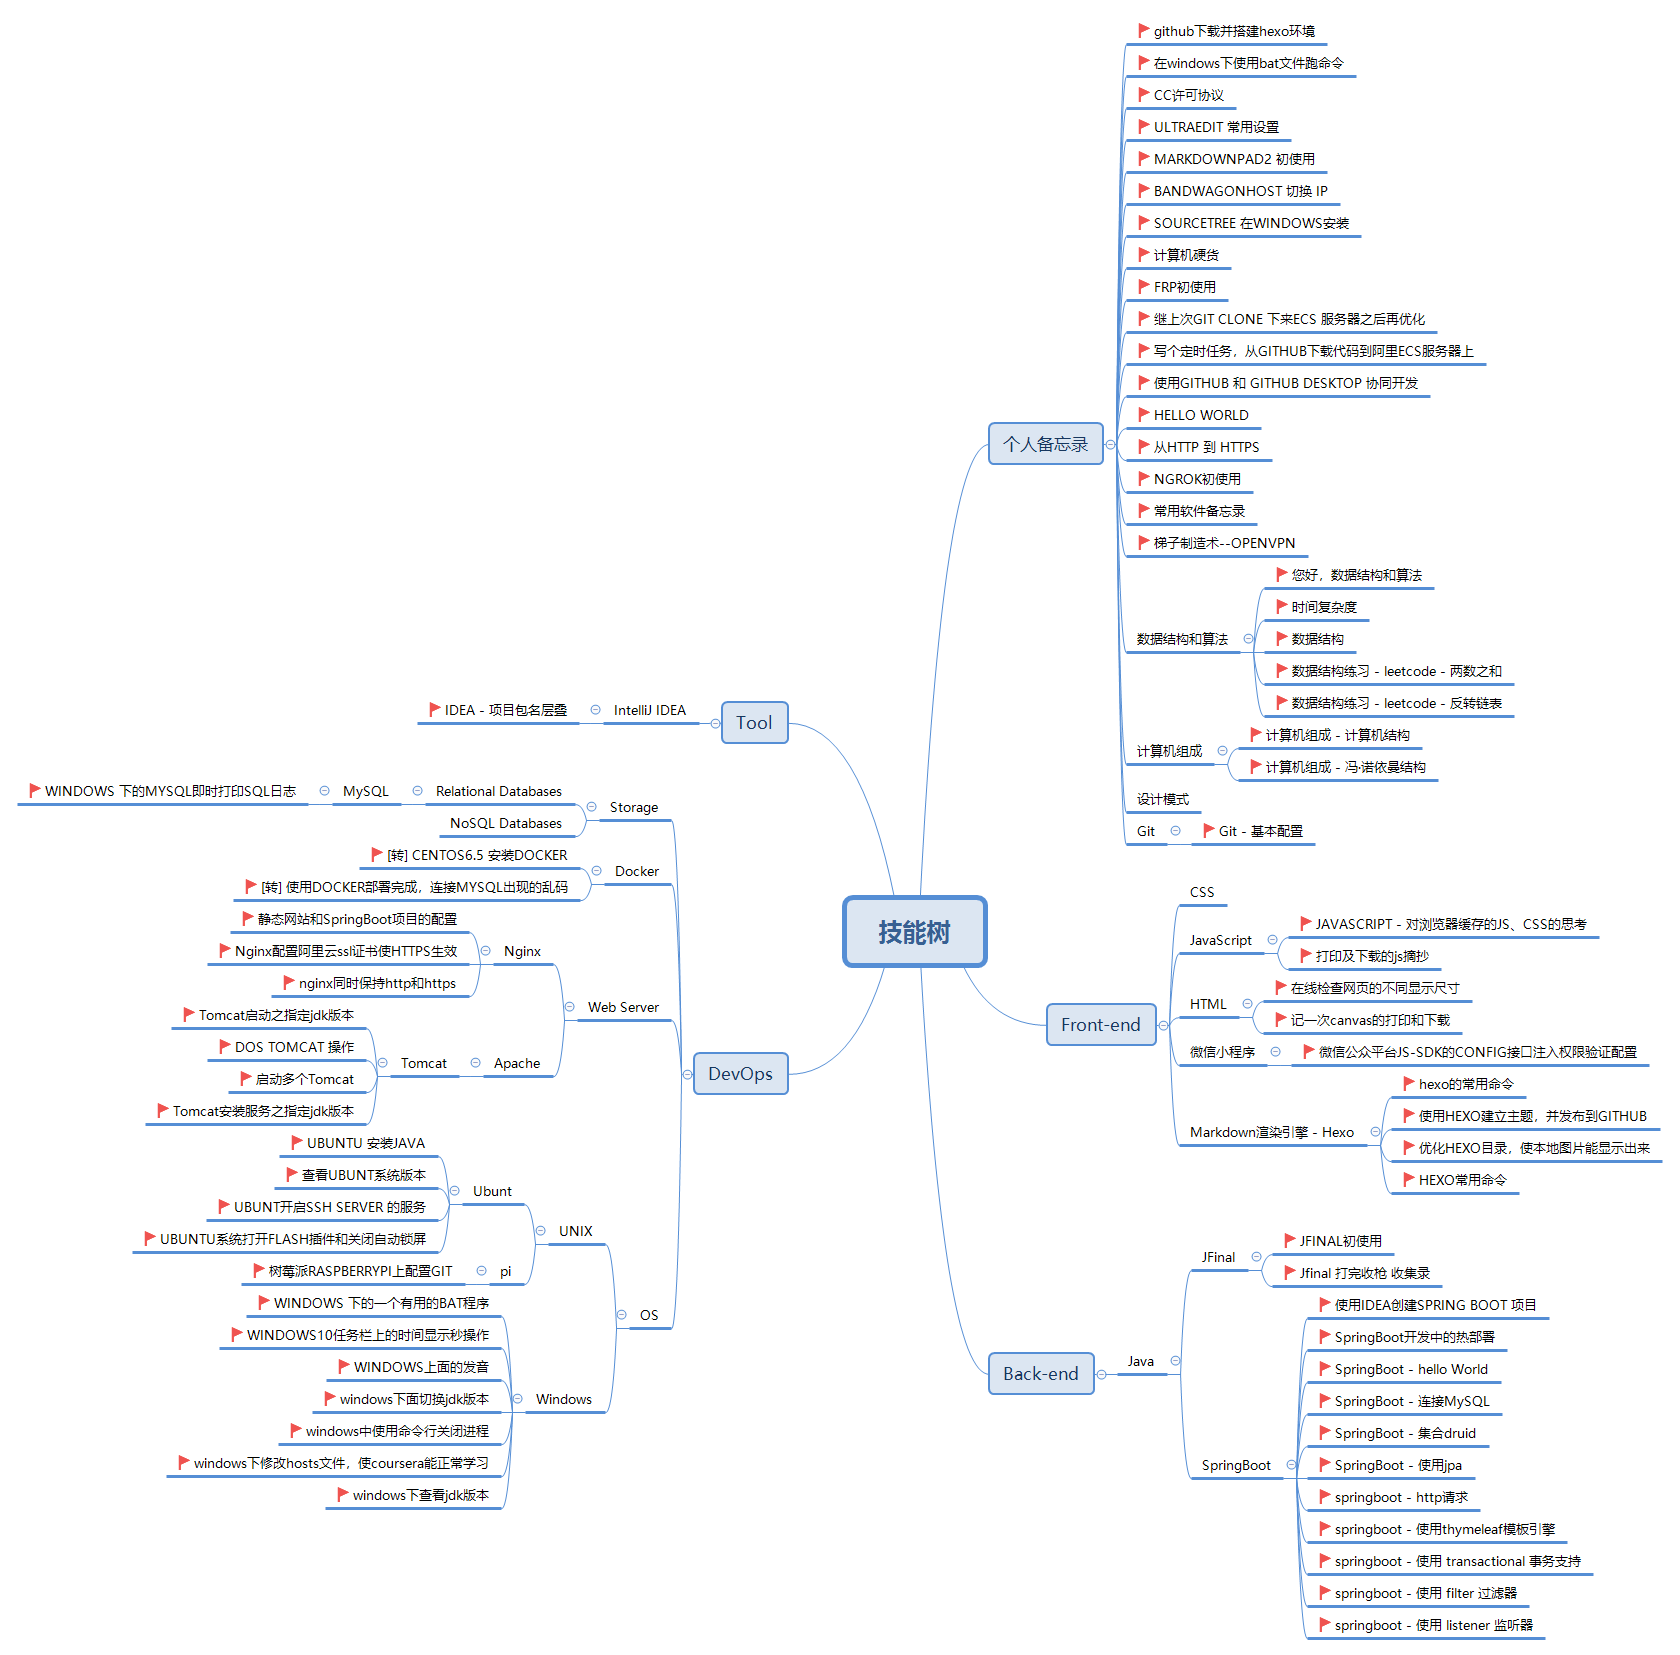
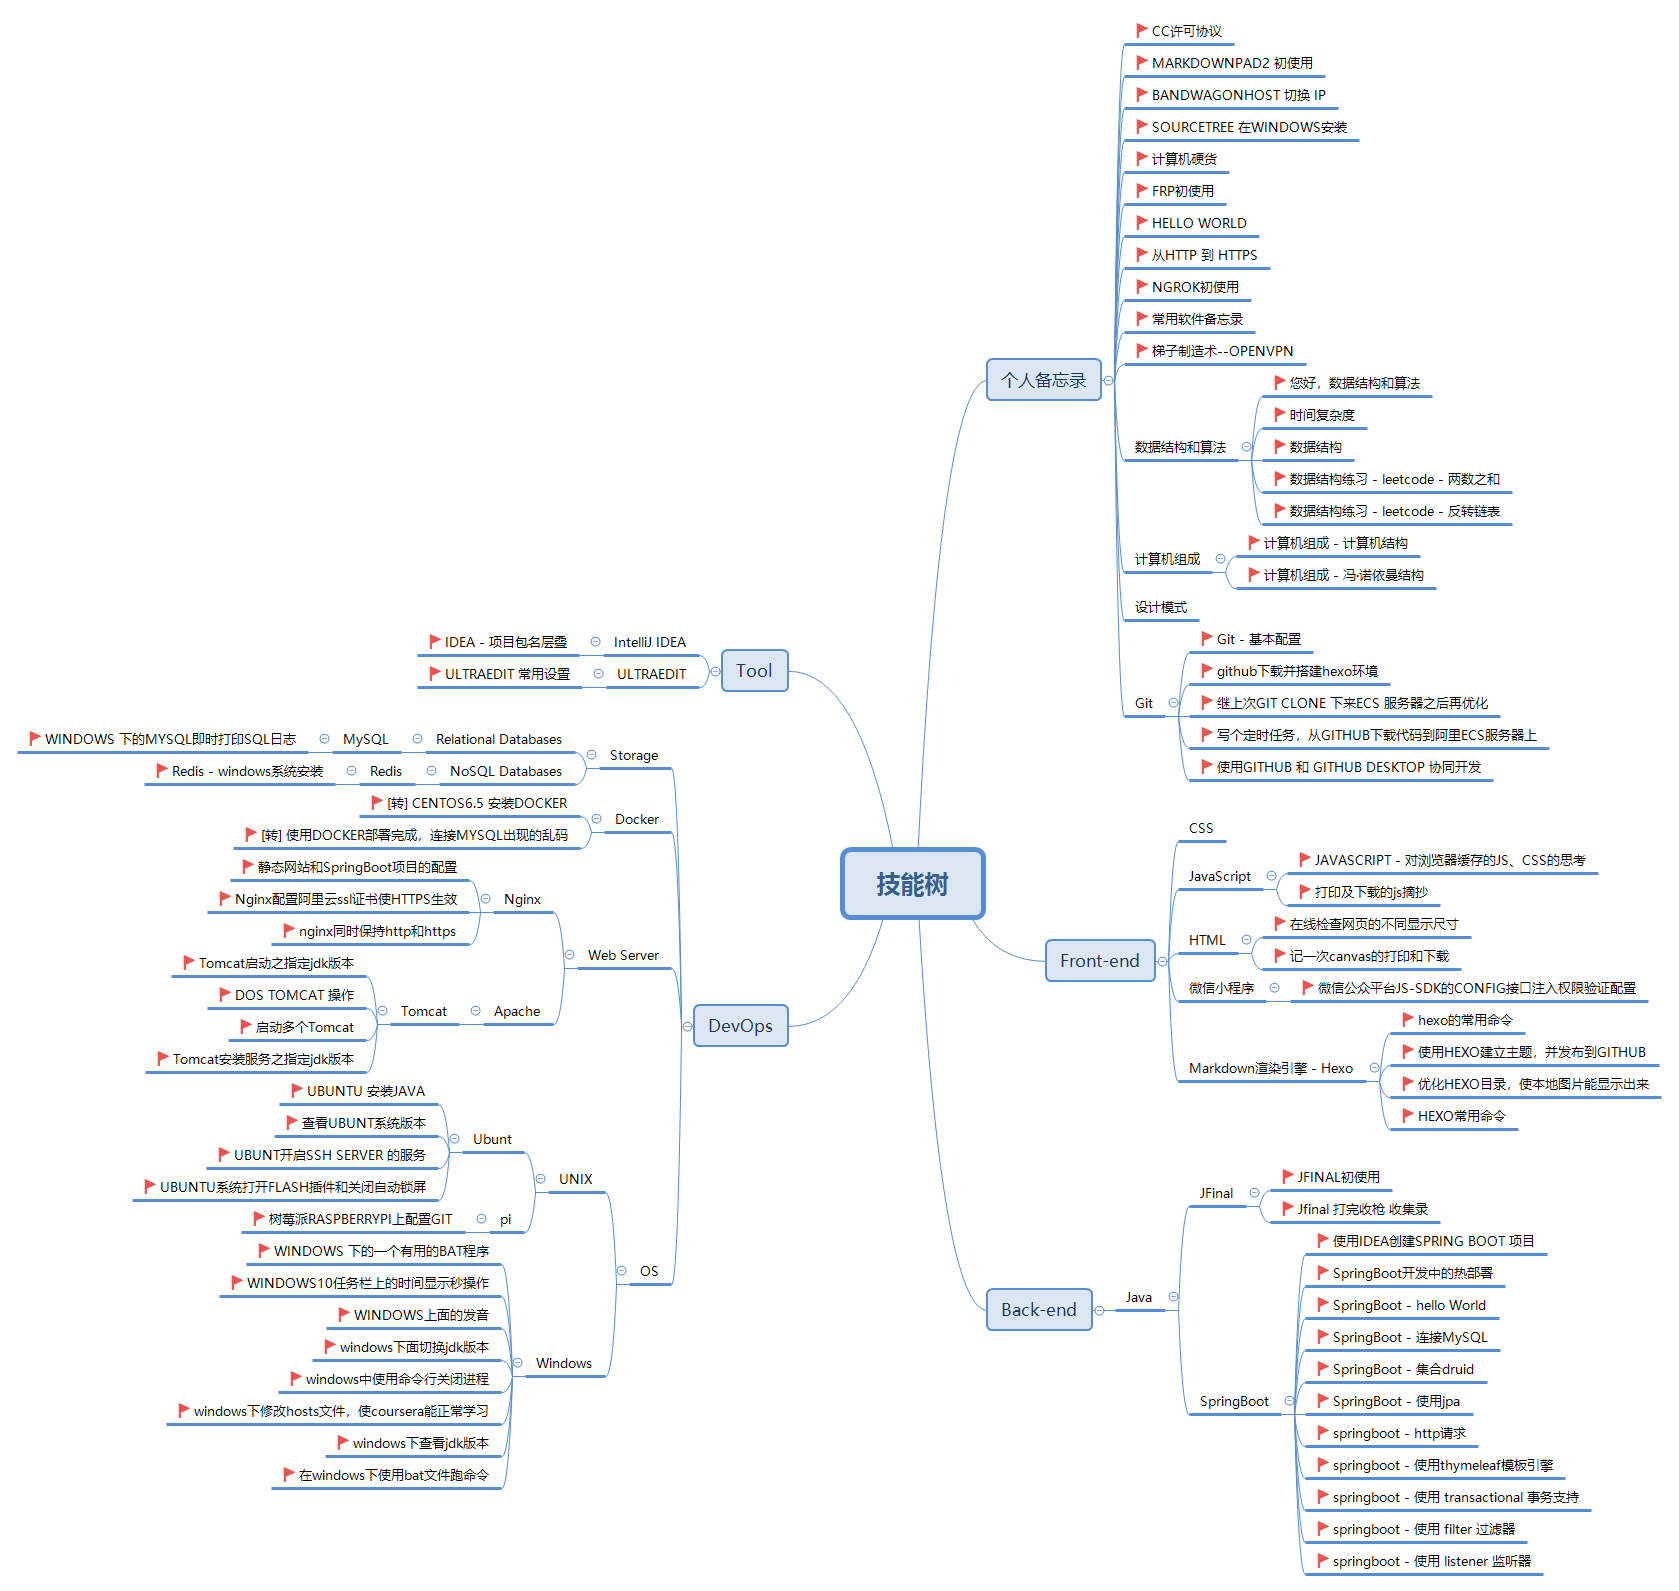
update readme

diff --git a/readme/index.html b/readme/index.html
@@ -1,20 +1,15 @@
 <!DOCTYPE html><html lang="zh-CN"><head><meta name="generator" content="Hexo 3.8.0"><meta charset="utf-8"><meta name="X-UA-Compatible" content="IE=edge"><meta name="author" content="porschan,710437653@qq.com"><title>readme · chanchifeng</title><meta name="description" content="技术路线
 Porschan个人备忘录
-github下载并搭建hexo环境:https://chanchifeng.com/2018/11/11/github-hexo-windows10/
-在windows下使用bat文件跑命令:https://chanchifeng.com/2018/11/12/"><meta name="keywords" content="Hexo,HTML,CSS,android,Linux"><meta content="width=device-width, initial-scale=1.0, maximum-scale=1.0, user-scalable=0" name="viewport"><meta content="yes" name="apple-mobile-web-app-capable"><meta content="black" name="apple-mobile-web-app-status-bar-style"><meta content="telephone=no" name="format-detection"><meta name="renderer" content="webkit"><link rel="short icon" href="/images/favicon.png" type="image/x-icon"><link rel="stylesheet" href="/css/style.css"><link rel="stylesheet" href="/css/blog_basic.css"><link rel="stylesheet" href="/css/font-awesome.min.css"><link rel="alternate" type="application/atom+xml" title="ATOM 1.0" href="/atom.xml"></head><body><div class="sidebar animated fadeInDown"><div class="logo-title"><div class="title"><img src="/images/logo@2x.png" style="width:127px;"><h3 title=""><a href="/">chanchifeng</a></h3><div class="description"><p>Carpet Diem</p></div></div></div><ul class="social-links"><li><a href="http://github.com/porschan"><i class="fa fa-github"></i></a></li></ul><div class="footer"></div></div><div class="main"><div class="page-top animated fadeInDown"><div class="nav"><li><a href="/">首页</a></li><li><a href="/about">关于</a></li><li><a href="/archives">归档</a></li><li><a href="/links">友链</a></li><li><a class="current" href="/readme">引导</a></li></div><div class="information"><div class="back_btn"><li><a class="fa fa-chevron-left" onclick="window.history.go(-1)" style="display:none;"> </a></li></div><div class="avatar"><img src="/images/favicon.png"></div></div></div><div class="autopagerize_page_element"><div class="content"><div class="post-page"><div class="post animated fadeInDown"><div class="post-title"><h3><a>readme</a></h3></div><div class="post-content"><h3 id="技术路线"><a href="#技术路线" class="headerlink" title="技术路线"></a>技术路线</h3><p><img src="/readme/20190215.png" alt=""></p>
+CC许可协议:https://chanchifeng.com/2018/11/13/cc/
+MARKDOWNPAD2 初使用:https://chanchifeng.com/2018/07/25/markdownPad/
+BANDWAGONHOST 切换 IP："><meta name="keywords" content="Hexo,HTML,CSS,android,Linux"><meta content="width=device-width, initial-scale=1.0, maximum-scale=1.0, user-scalable=0" name="viewport"><meta content="yes" name="apple-mobile-web-app-capable"><meta content="black" name="apple-mobile-web-app-status-bar-style"><meta content="telephone=no" name="format-detection"><meta name="renderer" content="webkit"><link rel="short icon" href="/images/favicon.png" type="image/x-icon"><link rel="stylesheet" href="/css/style.css"><link rel="stylesheet" href="/css/blog_basic.css"><link rel="stylesheet" href="/css/font-awesome.min.css"><link rel="alternate" type="application/atom+xml" title="ATOM 1.0" href="/atom.xml"></head><body><div class="sidebar animated fadeInDown"><div class="logo-title"><div class="title"><img src="/images/logo@2x.png" style="width:127px;"><h3 title=""><a href="/">chanchifeng</a></h3><div class="description"><p>Carpet Diem</p></div></div></div><ul class="social-links"><li><a href="http://github.com/porschan"><i class="fa fa-github"></i></a></li></ul><div class="footer"></div></div><div class="main"><div class="page-top animated fadeInDown"><div class="nav"><li><a href="/">首页</a></li><li><a href="/about">关于</a></li><li><a href="/archives">归档</a></li><li><a href="/links">友链</a></li><li><a class="current" href="/readme">引导</a></li></div><div class="information"><div class="back_btn"><li><a class="fa fa-chevron-left" onclick="window.history.go(-1)" style="display:none;"> </a></li></div><div class="avatar"><img src="/images/favicon.png"></div></div></div><div class="autopagerize_page_element"><div class="content"><div class="post-page"><div class="post animated fadeInDown"><div class="post-title"><h3><a>readme</a></h3></div><div class="post-content"><h3 id="技术路线"><a href="#技术路线" class="headerlink" title="技术路线"></a>技术路线</h3><p><img src="/readme/20190215.png" alt=""></p>
 <h1 id="Porschan"><a href="#Porschan" class="headerlink" title="Porschan"></a>Porschan</h1><h2 id="个人备忘录"><a href="#个人备忘录" class="headerlink" title="个人备忘录"></a>个人备忘录</h2><ul>
-<li>github下载并搭建hexo环境:<a href="https://chanchifeng.com/2018/11/11/github-hexo-windows10/" title="github下载并搭建hexo环境" target="_blank" rel="noopener">https://chanchifeng.com/2018/11/11/github-hexo-windows10/</a></li>
-<li>在windows下使用bat文件跑命令:<a href="https://chanchifeng.com/2018/11/12/hexo-cmd-windows-bat/" title="在windows下使用bat文件跑命令" target="_blank" rel="noopener">https://chanchifeng.com/2018/11/12/hexo-cmd-windows-bat/</a></li>
 <li>CC许可协议:<a href="https://chanchifeng.com/2018/11/13/cc/" title="CC许可协议" target="_blank" rel="noopener">https://chanchifeng.com/2018/11/13/cc/</a></li>
-<li>ULTRAEDIT 常用设置:<a href="https://chanchifeng.com/2018/07/19/ultraEdit/" title="https://chanchifeng.com/2018/07/19/ultraEdit/" target="_blank" rel="noopener">https://chanchifeng.com/2018/07/19/ultraEdit/</a></li>
 <li>MARKDOWNPAD2 初使用:<a href="https://chanchifeng.com/2018/07/25/markdownPad/" title="https://chanchifeng.com/2018/07/25/markdownPad/" target="_blank" rel="noopener">https://chanchifeng.com/2018/07/25/markdownPad/</a></li>
 <li>BANDWAGONHOST 切换 IP：<a href="https://chanchifeng.com/2018/11/11/Bandwagonhost-IP/" title="https://chanchifeng.com/2018/11/11/Bandwagonhost-IP/" target="_blank" rel="noopener">https://chanchifeng.com/2018/11/11/Bandwagonhost-IP/</a></li>
 <li>SOURCETREE 在WINDOWS安装：<a href="https://chanchifeng.com/2018/11/11/SourceTree/" title="https://chanchifeng.com/2018/11/11/SourceTree/" target="_blank" rel="noopener">https://chanchifeng.com/2018/11/11/SourceTree/</a></li>
 <li>计算机硬货:<a href="https://chanchifeng.com/2018/11/11/computer/" title="https://chanchifeng.com/2018/11/11/computer/" target="_blank" rel="noopener">https://chanchifeng.com/2018/11/11/computer/</a></li>
 <li>FRP初使用:<a href="https://chanchifeng.com/2018/11/11/frp/" title="https://chanchifeng.com/2018/11/11/frp/" target="_blank" rel="noopener">https://chanchifeng.com/2018/11/11/frp/</a></li>
-<li>继上次GIT CLONE 下来ECS 服务器之后再优化:<a href="https://chanchifeng.com/2018/11/11/git_clone-CES/" title="https://chanchifeng.com/2018/11/11/git_clone-CES/" target="_blank" rel="noopener">https://chanchifeng.com/2018/11/11/git_clone-CES/</a></li>
-<li>写个定时任务，从GITHUB下载代码到阿里ECS服务器上:<a href="https://chanchifeng.com/2018/11/11/github-ecs/" title="https://chanchifeng.com/2018/11/11/github-ecs/" target="_blank" rel="noopener">https://chanchifeng.com/2018/11/11/github-ecs/</a></li>
-<li>使用GITHUB 和 GITHUB DESKTOP 协同开发:<a href="https://chanchifeng.com/2018/11/11/github-github_desktop/" title="https://chanchifeng.com/2018/11/11/github-github_desktop/" target="_blank" rel="noopener">https://chanchifeng.com/2018/11/11/github-github_desktop/</a></li>
 <li>HELLO WORLD:<a href="https://chanchifeng.com/2018/11/11/hello-world/" title="https://chanchifeng.com/2018/11/11/hello-world/" target="_blank" rel="noopener">https://chanchifeng.com/2018/11/11/hello-world/</a></li>
 <li>从HTTP 到 HTTPS:<a href="https://chanchifeng.com/2018/11/11/http-https/" title="https://chanchifeng.com/2018/11/11/http-https/" target="_blank" rel="noopener">https://chanchifeng.com/2018/11/11/http-https/</a></li>
 <li>NGROK初使用:<a href="https://chanchifeng.com/2018/11/11/ngrok/" title="https://chanchifeng.com/2018/11/11/ngrok/" target="_blank" rel="noopener">https://chanchifeng.com/2018/11/11/ngrok/</a></li>
@@ -36,7 +31,12 @@ github下载并搭建hexo环境:https://chanchifeng.com/2018/11/11/github-hexo-w
 </ul>
 <h3 id="设计模式"><a href="#设计模式" class="headerlink" title="设计模式"></a>设计模式</h3><ul>
 <li><h3 id="Git"><a href="#Git" class="headerlink" title="Git"></a>Git</h3></li>
-<li>Git - 基本配置：</li>
+<li><p>写个定时任务，从GITHUB下载代码到阿里ECS服务器上:<a href="https://chanchifeng.com/2018/11/11/github-ecs/" title="https://chanchifeng.com/2018/11/11/github-ecs/" target="_blank" rel="noopener">https://chanchifeng.com/2018/11/11/github-ecs/</a></p>
+</li>
+<li>继上次GIT CLONE 下来ECS 服务器之后再优化:<a href="https://chanchifeng.com/2018/11/11/git_clone-CES/" title="https://chanchifeng.com/2018/11/11/git_clone-CES/" target="_blank" rel="noopener">https://chanchifeng.com/2018/11/11/git_clone-CES/</a></li>
+<li>使用GITHUB 和 GITHUB DESKTOP 协同开发:<a href="https://chanchifeng.com/2018/11/11/github-github_desktop/" title="https://chanchifeng.com/2018/11/11/github-github_desktop/" target="_blank" rel="noopener">https://chanchifeng.com/2018/11/11/github-github_desktop/</a></li>
+<li>github下载并搭建hexo环境:<a href="https://chanchifeng.com/2018/11/11/github-hexo-windows10/" title="github下载并搭建hexo环境" target="_blank" rel="noopener">https://chanchifeng.com/2018/11/11/github-hexo-windows10/</a></li>
+<li>Git - 基本配置：<a href="https://chanchifeng.com/2019/02/15/git-basic/" title="https://chanchifeng.com/2019/02/15/git-basic/" target="_blank" rel="noopener">https://chanchifeng.com/2019/02/15/git-basic/</a></li>
 </ul>
 <h2 id="Front-end"><a href="#Front-end" class="headerlink" title="Front-end"></a>Front-end</h2><h3 id="HTML"><a href="#HTML" class="headerlink" title="HTML"></a>HTML</h3><ul>
 <li>在线检查网页的不同显示尺寸:<a href="https://chanchifeng.com/2018/10/24/ui/" title="https://chanchifeng.com/2018/10/24/ui/" target="_blank" rel="noopener">https://chanchifeng.com/2018/10/24/ui/</a></li>
@@ -62,8 +62,10 @@ github下载并搭建hexo环境:https://chanchifeng.com/2018/11/11/github-hexo-w
 <h2 id="DevOps"><a href="#DevOps" class="headerlink" title="DevOps"></a>DevOps</h2><h3 id="Storage"><a href="#Storage" class="headerlink" title="Storage"></a>Storage</h3><h4 id="Relational-Databases"><a href="#Relational-Databases" class="headerlink" title="Relational Databases"></a>Relational Databases</h4><h4 id="MySQL"><a href="#MySQL" class="headerlink" title="MySQL"></a>MySQL</h4><ul>
 <li>WINDOWS 下的MYSQL即时打印SQL日志：<a href="https://chanchifeng.com/2018/11/11/windows-mysql-sql/" title="https://chanchifeng.com/2018/11/11/windows-mysql-sql/" target="_blank" rel="noopener">https://chanchifeng.com/2018/11/11/windows-mysql-sql/</a></li>
 </ul>
-<h3 id="Docker"><a href="#Docker" class="headerlink" title="Docker"></a>Docker</h3><ul>
-<li>[转] CENTOS6.5 安装DOCKER:<a href="https://chanchifeng.com/2018/07/26/centos-docker/" title="https://chanchifeng.com/2018/07/26/centos-docker/" target="_blank" rel="noopener">https://chanchifeng.com/2018/07/26/centos-docker/</a></li>
+<h4 id="NoSQL-Databases"><a href="#NoSQL-Databases" class="headerlink" title="NoSQL Databases"></a>NoSQL Databases</h4><h4 id="Redis"><a href="#Redis" class="headerlink" title="Redis"></a>Redis</h4><ul>
+<li><h3 id="Docker"><a href="#Docker" class="headerlink" title="Docker"></a>Docker</h3></li>
+<li><p>[转] CENTOS6.5 安装DOCKER:<a href="https://chanchifeng.com/2018/07/26/centos-docker/" title="https://chanchifeng.com/2018/07/26/centos-docker/" target="_blank" rel="noopener">https://chanchifeng.com/2018/07/26/centos-docker/</a></p>
+</li>
 <li>[转] 使用DOCKER部署完成，连接MYSQL出现的乱码:<a href="https://chanchifeng.com/2018/07/27/docker-mysql-navicat/" title="https://chanchifeng.com/2018/07/27/docker-mysql-navicat/" target="_blank" rel="noopener">https://chanchifeng.com/2018/07/27/docker-mysql-navicat/</a></li>
 </ul>
 <hr>
@@ -84,6 +86,7 @@ github下载并搭建hexo环境:https://chanchifeng.com/2018/11/11/github-hexo-w
 <li>查看UBUNT系统版本：<a href="https://chanchifeng.com/2018/10/21/ubunt-version/" title="https://chanchifeng.com/2018/10/21/ubunt-version/" target="_blank" rel="noopener">https://chanchifeng.com/2018/10/21/ubunt-version/</a></li>
 <li>UBUNT开启SSH SERVER 的服务：<a href="https://chanchifeng.com/2018/10/24/ubunt-ssh-server/" title="https://chanchifeng.com/2018/10/24/ubunt-ssh-server/" target="_blank" rel="noopener">https://chanchifeng.com/2018/10/24/ubunt-ssh-server/</a></li>
 <li>UBUNTU系统打开FLASH插件和关闭自动锁屏:<a href="https://chanchifeng.com/2018/11/11/ubuntu-flash/" title="https://chanchifeng.com/2018/11/11/ubuntu-flash/" target="_blank" rel="noopener">https://chanchifeng.com/2018/11/11/ubuntu-flash/</a></li>
+<li></li>
 </ul>
 <hr>
 <h5 id="PI"><a href="#PI" class="headerlink" title="PI"></a>PI</h5><ul>
@@ -98,6 +101,7 @@ github下载并搭建hexo环境:https://chanchifeng.com/2018/11/11/github-hexo-w
 <li>WINDOWS中使用命令行关闭进程：<a href="https://chanchifeng.com/2018/12/01/windows-taskkill/" title="https://chanchifeng.com/2018/12/01/windows-taskkill/" target="_blank" rel="noopener">https://chanchifeng.com/2018/12/01/windows-taskkill/</a></li>
 <li>windows下修改hosts文件，使coursera能正常学习：<a href="https://chanchifeng.com/2018/12/24/windows-coursera/" title="https://chanchifeng.com/2018/12/24/windows-coursera/" target="_blank" rel="noopener">https://chanchifeng.com/2018/12/24/windows-coursera/</a></li>
 <li>windows下查看jdk版本：<a href="https://chanchifeng.com/2019/01/28/windows-jdk/" title="https://chanchifeng.com/2019/01/28/windows-jdk/" target="_blank" rel="noopener">https://chanchifeng.com/2019/01/28/windows-jdk/</a></li>
+<li>在windows下使用bat文件跑命令:<a href="https://chanchifeng.com/2018/11/12/hexo-cmd-windows-bat/" title="在windows下使用bat文件跑命令" target="_blank" rel="noopener">https://chanchifeng.com/2018/11/12/hexo-cmd-windows-bat/</a></li>
 </ul>
 <hr>
 <h2 id="Back-end"><a href="#Back-end" class="headerlink" title="Back-end"></a>Back-end</h2><h3 id="Java"><a href="#Java" class="headerlink" title="Java"></a>Java</h3><h4 id="JFinal"><a href="#JFinal" class="headerlink" title="JFinal"></a>JFinal</h4><ul>
@@ -115,12 +119,15 @@ github下载并搭建hexo环境:https://chanchifeng.com/2018/11/11/github-hexo-w
 <li>springboot - http请求:<a href="https://chanchifeng.com/2019/02/14/springboot-httpRequest/" title="https://chanchifeng.com/2019/02/14/springboot-httpRequest/" target="_blank" rel="noopener">https://chanchifeng.com/2019/02/14/springboot-httpRequest/</a></li>
 <li>springboot - 使用thymeleaf模板引擎：<a href="https://chanchifeng.com/2019/02/14/springboot-thymeleaf/" title="https://chanchifeng.com/2019/02/14/springboot-thymeleaf/" target="_blank" rel="noopener">https://chanchifeng.com/2019/02/14/springboot-thymeleaf/</a></li>
 <li>springboot - 使用 transactional 事务支持：<a href="https://chanchifeng.com/2019/02/14/springboot-transactional/" title="https://chanchifeng.com/2019/02/14/springboot-transactional/" target="_blank" rel="noopener">https://chanchifeng.com/2019/02/14/springboot-transactional/</a></li>
-<li>springboot - 使用 filter 过滤器：</li>
-<li>springboot - 使用 listener 监听器：</li>
+<li>springboot - 使用 filter 过滤器：<a href="https://chanchifeng.com/2019/02/14/springboot-filter/" title="https://chanchifeng.com/2019/02/14/springboot-filter/" target="_blank" rel="noopener">https://chanchifeng.com/2019/02/14/springboot-filter/</a></li>
+<li>springboot - 使用 listener 监听器：<a href="https://chanchifeng.com/2019/02/14/springboot-listener/" title="https://chanchifeng.com/2019/02/14/springboot-listener/" target="_blank" rel="noopener">https://chanchifeng.com/2019/02/14/springboot-listener/</a></li>
 </ul>
 <hr>
 <h2 id="Tool"><a href="#Tool" class="headerlink" title="Tool"></a>Tool</h2><h3 id="IntelliJ-IDEA"><a href="#IntelliJ-IDEA" class="headerlink" title="IntelliJ IDEA"></a>IntelliJ IDEA</h3><ul>
 <li>项目包名层叠：<a href="https://chanchifeng.com/2019/01/31/idea-package-hidden/" title="https://chanchifeng.com/2019/01/31/idea-package-hidden/" target="_blank" rel="noopener">https://chanchifeng.com/2019/01/31/idea-package-hidden/</a></li>
 <li>INTELLIJ IDEA常用设置:<a href="https://chanchifeng.com/2018/11/11/intellij-idea/" title="https://chanchifeng.com/2018/11/11/intellij-idea/" target="_blank" rel="noopener">https://chanchifeng.com/2018/11/11/intellij-idea/</a></li>
+</ul>
+<h3 id="ULTRAEDIT"><a href="#ULTRAEDIT" class="headerlink" title="ULTRAEDIT"></a>ULTRAEDIT</h3><ul>
+<li>ULTRAEDIT 常用设置:<a href="https://chanchifeng.com/2018/07/19/ultraEdit/" title="https://chanchifeng.com/2018/07/19/ultraEdit/" target="_blank" rel="noopener">https://chanchifeng.com/2018/07/19/ultraEdit/</a></li>
 </ul>
 </div><div class="post-footer"><div class="meta"><div class="info"><i class="fa fa-sun-o"></i><span class="date">2018-11-15</span></div></div></div></div></div></div></div></div><script src="/js/jquery.js"></script><script src="/js/jquery-migrate-1.2.1.min.js"></script><script src="/js/jquery.appear.js"></script></body></html>
